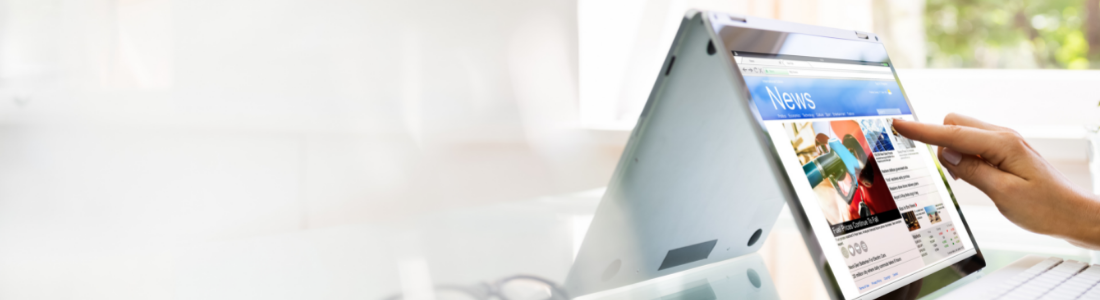
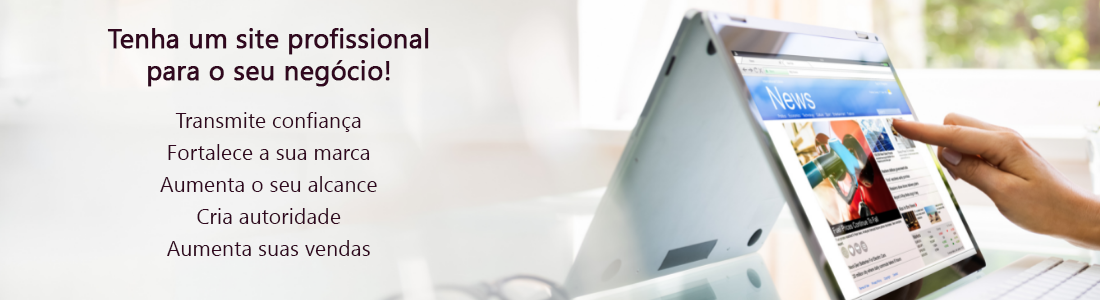
modificação imagem inicial sobre sites

diff --git a/css/style.css b/css/style.css
@@ -77,5 +77,4 @@ footer {
 
 .logomarca img {
     width: 45%;
-    margin-left: 30%;
 }

diff --git a/paginas/fenixEcho.php b/paginas/fenixEcho.php
@@ -1,25 +1,19 @@
 <!-- Menu Principal-->
 <div class="menuprincipal my-2 w-100 rounded">
     <div class="container container-fluid">
-        <div class="row menuprincipal mb-5" id="home">
+        <div class="row-sm menuprincipal mb-5" id="home">
 
             <!-- Coluna Logomarca -->
-            <div class="col-md logomarca text-center">
-                <img  src="img/FenixEchoBranca.png" alt="" class="mt-3 img-fluid">
+            <div class="col logomarca text-center">
+                <img src="img/FenixEchoBranca.png" alt="" class="mt-1 ml-0 pl-0 w-25">
             </div>
             <!-- Fim Coluna Logomarca -->
 
             <!-- Coluna Partes/Paginas -->
-            <div class="col-md">
+            <div class="col">
                 <div class="row">
-                    <div class="col-sm letrasmenu mt-4">
-                        <h5>
-                            <a class="text-decoration-none letramaisescura" href="#bioFenix">
-                                Home
-                            </a>
-                        </h5>
-                    </div>
-                    <div class="col-sm letrasmenu mt-4">
+
+                    <div class="colletrasmenu mt-4">
                         <h5>
                             <a class="text-decoration-none letramaisescura" href="#servicos">
                                 Serviços
@@ -33,7 +27,7 @@
                             </a>
                         </h5>
                     </div> -->
-                    <div class="col-sm letrasmenu mt-4">
+                    <div class="col letrasmenu mt-4">
                         <h5>
                             <a class="text-decoration-none letramaisescura" href="#sobre">
                                 Sobre
@@ -41,7 +35,7 @@
                         </h5>
 
                     </div>
-                    <div class="col-sm letrasmenu mt-4">
+                    <div class="col letrasmenu mt-4">
                         <h5>
                             <a class="text-decoration-none letramaisescura" href="#contato">
                                 Contato
@@ -53,39 +47,21 @@
             <!-- Fim Coluna Partes/Paginas -->
 
             <!-- Coluna Rede Sociais -->
-            <div class="col-2 redessociais container-fluid ">
+            <div class="col-md redessociais container-fluid ">
                 <a href="https://www.instagram.com/fenix_echo_web/" class="link-light text-decoration-none"> <i class="fab fa-instagram"></i> </a>
                 <a href="https://github.com/SemiramisCavalcanti" class="link-light text-decoration-none"> <i class="fab fa-github"></i> </a>
                 <a href="https://www.linkedin.com/in/semiramis-cavalcanti-01a18013b/" class="link-light text-decoration-none"> <i class="fab fa-linkedin"></i> </a>
-         
+
 
             </div>
 
             <!-- Fim Coluna Redes Sociais -->
 
-        <div>
-    </div>
-</div>
-<!-- Fim Menu Principal -->
+            <div>
+            </div>
+        </div>
+        <!-- Fim Menu Principal -->
 
-<!-- Corpo Site -->
-<div class="container text-center position-absolute">
-    <div class="row">
-        <div class="col">
-            <h3 class="m-4 p-2">Tenha um site profissional para <br> o seu negócio!!</h3>
-            <h5>Transmite confiança</h5>
-            <h5>Fortalece a sua marca</h5>
-            <h5>Aumenta o seu alcance</h5>
-            <h5>Cria Autoridade</h5>
-            <h5>Aumenta suas vendas</h5>
-        </div>
-        <div class="col">
-            <img src="" alt="">
-            
-        </div>
-    </div>
+        <!-- Corpo Site -->
     
-    
-    
-</div>
-<img src="img/capa.png" alt="" class="my-3 w-100">
+        <img src="img/capa.png" alt="" class="my-3 w-100 img-fluid">

diff --git a/paginas/include/footer.php b/paginas/include/footer.php
@@ -6,22 +6,7 @@
 
     <div class="row">
         <div class="col">
-            <div class="row mt-5">
-                <div class="col"></div>
-                <div class="col-6 letramaisescura">
-                    <a href="" class="text-decoration-none  letramaisescura">
-                        <h6>Politica de Privacidade </h6>
-                    </a>
-                </div>
-                <div class="col-1">
-                   <h6> | </h6>
-                </div>
-                <div class="col-4">
-                    <a href="" class="text-decoration-none letramaisescura">
-                        <h6 >Termos de Uso </h6>
-                    </a>
-                </div>
-            </div>
+    
 
         </div>
         <div class="col ">
